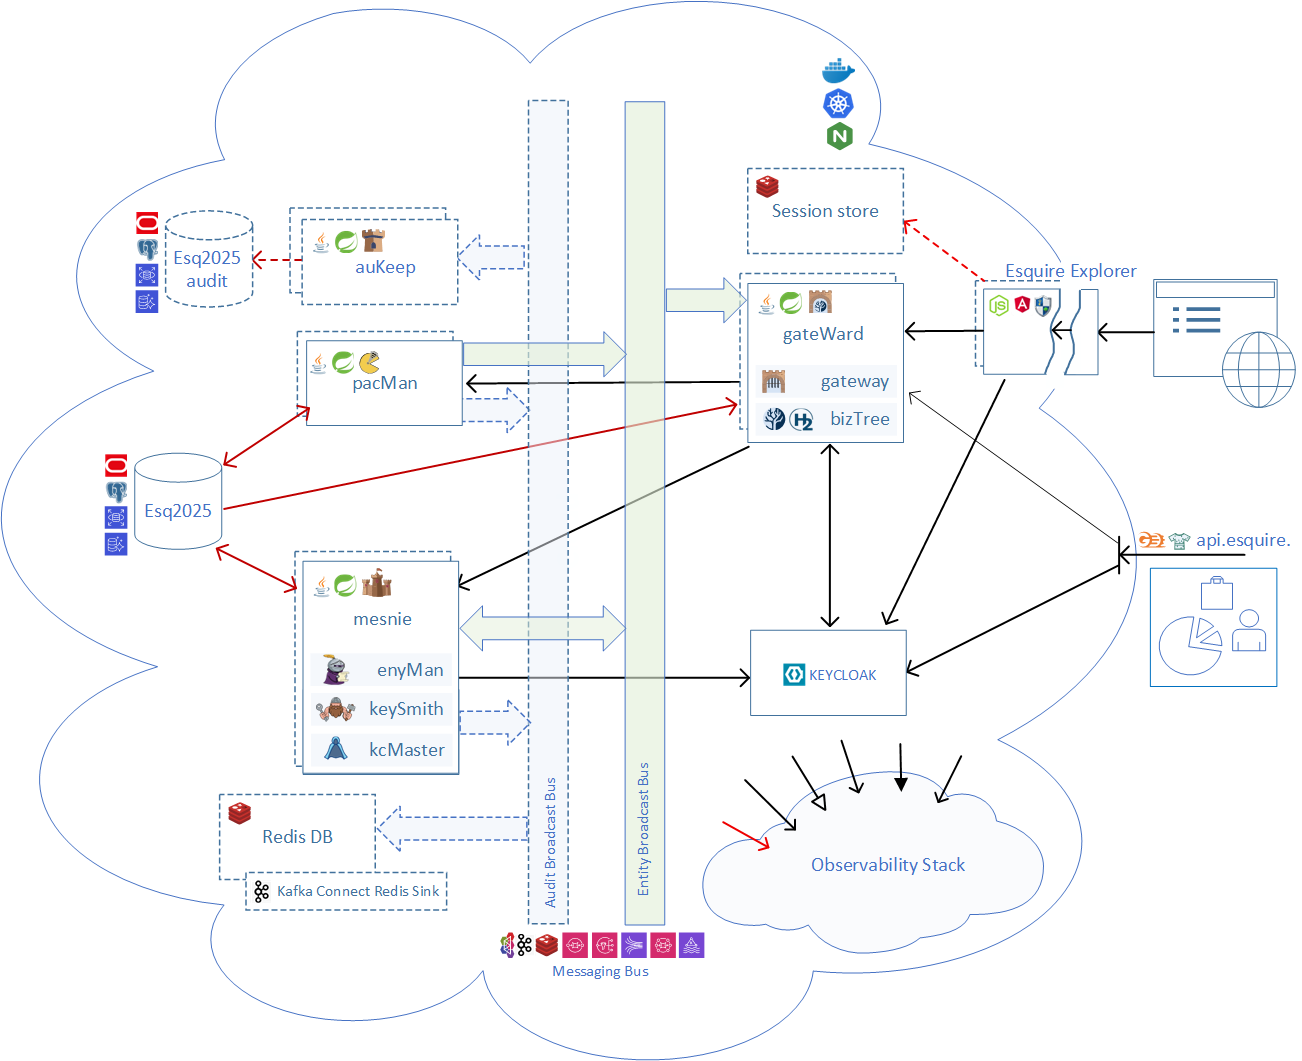
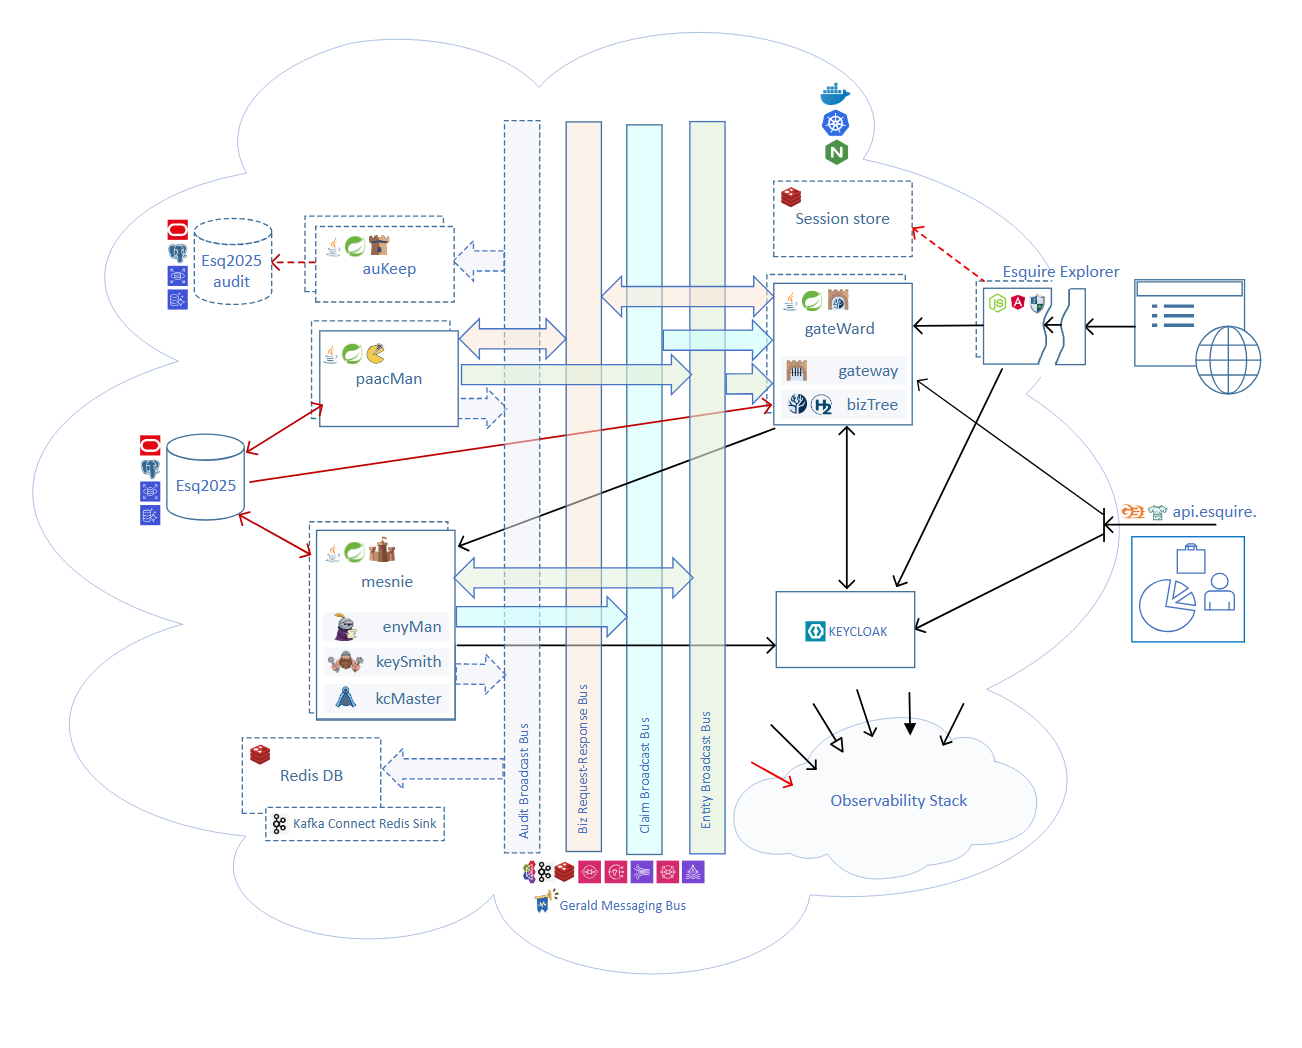
v2.0.3 -- finalization

diff --git a/frontend/public/landing/architecture.html b/frontend/public/landing/architecture.html
@@ -1,5 +1,5 @@
             <h2>Current Architecture</h2>
-            <img class="landing-arch-diagram" src="/img/ComponentModel.png?v=1214" alt="Esquire Component Model"/>
+            <img class="landing-arch-diagram" src="/img/ComponentModel.png?v=203" alt="Esquire Component Model"/>
 
             <p>
               Two public hosts:
@@ -11,7 +11,7 @@
 
             <p>
               Every box above is its own program: the <strong>gateway</strong>, the six backend
-              <strong>services</strong> (bizTree, enyMan, pacMan, keySmith, kcMaster, auKeep), and the
+              <strong>services</strong> (bizTree, enyMan, paacMan, keySmith, kcMaster, auKeep), and the
               <strong>BFF</strong>. Each of them runs <strong>redundant, with optional autoscale</strong>,
               and the copies sit on separate nodes, so losing one keeps the site up.
               The databases, Keycloak, the message broker and the Session Store run as a single instance
@@ -47,23 +47,27 @@
               <img src="/logo/sqs-cd.svg" alt="Amazon SQS" height="20" style="vertical-align:middle">&nbsp;
               <img src="/logo/kinesis-cd.svg" alt="Amazon Kinesis" height="20" style="vertical-align:middle">&nbsp;
               <img src="/logo/msk-cd.svg" alt="Amazon MSK" height="20" style="vertical-align:middle"></h3>
-            <p>Three logical channels:
-               <br> - <i>IAM Request-Response Bus</i> &mdash; carries identity commands from keySmith to
+            <p>Five logical channels:
+               <br> - <i>Biz Request-Response Bus</i> &mdash; carries account commands from the gateway to
+                 paacMan, and the answers back
+               <br> - <i>IAM Request-Response Bus</i> &mdash; carries sign-in commands from keySmith to
                  kcMaster, and acknowledgement replies back
-               <br> - <i>Entity Broadcast Bus</i> &mdash; enyMan and pacMan publish entity change events on
+               <br> - <i>Entity Broadcast Bus</i> &mdash; enyMan and paacMan publish entity change events on
                  every mutation; bizTree and other interested consumers subscribe
+               <br> - <i>Claim Broadcast Bus</i> &mdash; keySmith and enyMan tell every gateway copy that a
+                 user's roles or position changed, so the next request reads the new ones
                <br> - <i>Audit Broadcast Bus</i> &mdash; optional (off by default); the entity-updating
-                 services (enyMan, pacMan, keySmith) publish each committed change event to the audit sink.
+                 services (enyMan, paacMan, keySmith) publish each committed change event to the audit sink.
                <br><br>Supported messaging vendors / brokers: ActiveMQ, Kafka or Redis. With AWS you can use
                SNS, SQS, Kinesis, MQ for ActiveMQ or MSK (managed Kafka).</p>
 
-            <h3>pacMan &mdash; Personal Account Manager
+            <h3>paacMan &mdash; Personal Account Manager
               <img src="/logo/java.svg" alt="Java" height="20" style="vertical-align:middle">
               <img src="/logo/spring-boot.svg" alt="Spring Boot" height="20" style="vertical-align:middle">
               <img src="/logo/pac-man.svg" alt="pacMan" height="22" style="vertical-align:middle"></h3>
             <p>The accounting service; manages account balance operations: deposit, withdrawal,
                cross-currency transfer; the place where business logic lives; all other services
-               exist to support it.</p>
+               exist to support it. It takes its commands from the gateway over the Biz bus.</p>
 
             <h3>bizTree
               <img src="/logo/java.svg" alt="Java" height="20" style="vertical-align:middle">
@@ -90,17 +94,18 @@
               <img src="/logo/java.svg" alt="Java" height="20" style="vertical-align:middle">
               <img src="/logo/spring-boot.svg" alt="Spring Boot" height="20" style="vertical-align:middle">
               <img src="/logo/keySmith.3.png" alt="keySmith" height="36" style="vertical-align:middle"></h3>
-            <p>Authentication and access profile service; manages IAS integration and JWT-based
-               authorization; serves access profiles to the frontend; publishes identity change requests
-               to the IAM bus.</p>
+            <p>The access profile service; keeps each user's login, email, roles and sign-in state;
+               answers the gateway when it asks who a caller is and what they may do; publishes sign-in
+               changes to the IAM bus, and tells the gateways over the Claim Broadcast Bus when a user's rights
+               change.</p>
 
             <h3>kcMaster
               <img src="/logo/java.svg" alt="Java" height="20" style="vertical-align:middle">
               <img src="/logo/spring-boot.svg" alt="Spring Boot" height="20" style="vertical-align:middle">
               <img src="/logo/kcMaster.png" alt="kcMaster" height="20" style="vertical-align:middle"></h3>
             <p>Keycloak sync coordinator; the only service that writes to Keycloak directly; consumes
-               identity commands from the IAM bus and executes create / update / delete in the IAM. Also
-               listens on the entity broadcast bus to keep a moved entity's Keycloak path in sync.</p>
+               sign-in commands from the IAM bus and executes create / update / delete in the IAM: the
+               login, the email and the sign-in state. Esquire's own data stays in Esq2025.</p>
 
             <h3>auKeep
               <img src="/logo/java.svg" alt="Java" height="20" style="vertical-align:middle">
@@ -120,7 +125,9 @@
               <img src="/logo/spring-boot.svg" alt="Spring Boot" height="20" style="vertical-align:middle">&nbsp;
               <img src="/logo/gateway.svg" alt="Gateway" height="20" style="vertical-align:middle"></h3>
             <p>Spring Cloud Gateway; the API router; routes requests to the appropriate backend
-               service by path and entity kind; validates JWT tokens on every request. Reachable
+               service by path and entity kind; validates JWT tokens on every request. The token names
+               the caller; the gateway asks keySmith what that caller may see and do, keeps the answer
+               in a cache, and passes it to the services with the request. Reachable
                two ways: in-cluster from the BFF on /api/*, and externally at
                <strong>api.esquire.mir0n.pro</strong> &mdash; the public REST API for non-browser
                callers (service-to-service integrations, load / smoke harnesses, future mobile or
@@ -128,8 +135,9 @@
 
             <h3>Keycloak
               <img src="/logo/keycloak.png" alt="Keycloak" height="20" style="vertical-align:middle"></h3>
-            <p>External IAM; issues JWT access tokens; manages user identities, realm configuration,
-               and authentication flows including TOTP; runs as a containerized service.</p>
+            <p>External IAM; signs users in and issues JWT access tokens that name the user; holds the
+               login, the email and the credential, including TOTP, and no Esquire data; runs as a
+               containerized service.</p>
 
             <h3>Esquire Explorer Backend (BFF)
               <img src="/logo/node.js.svg" alt="Node.js" height="20" style="vertical-align:middle"></h3>
@@ -231,7 +239,7 @@
               Two things move with the grouping, and both are worth knowing. Identity work used to travel the
               message bus: keySmith asked kcMaster to write to Keycloak. Now it is a call inside one program.
               And a tree read is answered where the request arrives, instead of crossing the network a
-              second time. What does <strong>not</strong> move is <strong>pacMan</strong>: accounting is a
+              second time. What does <strong>not</strong> move is <strong>paacMan</strong>: accounting is a
               business domain built on the framework, not a part of it, so it stays its own program in every
               shape. Any domain you build works the same way.
             </p>
@@ -249,7 +257,7 @@
               paying for a large one, and it is a deployment choice, reversible at any time.
             </p>
 
-            <img class="landing-arch-diagram" src="/img/ComponentModel.Compact.png?v=1214" alt="Esquire Component Model, compact shape"/>
+            <img class="landing-arch-diagram" src="/img/ComponentModel.Compact.png?v=203" alt="Esquire Component Model, compact shape"/>
 
             <h3>Mesnie
               <img src="/logo/java.svg" alt="Java" height="20" style="vertical-align:middle">&nbsp;

diff --git a/frontend/public/landing/why-it-matters.html b/frontend/public/landing/why-it-matters.html
@@ -117,9 +117,11 @@
             </p>
             <p>
               <strong>Identity and access management.</strong> Keycloak today. The architecture
-              ensures no core service ever touches Keycloak directly. Replacing it means replacing
-              kcMaster with an xyzMaster that speaks to a different IAM &mdash; the rest of the system
-              is unchanged. A deployment decision, not an architectural one.
+              ensures no core service ever touches Keycloak directly. Keycloak signs users in and issues a
+              token that names the user, and nothing more: the roles and the position in the tree stay in
+              Esquire's own database, so the identity server holds no Esquire data to migrate. Replacing it
+              means replacing kcMaster with an xyzMaster that speaks to a different IAM &mdash; the rest of
+              the system is unchanged. A deployment decision, not an architectural one.
             </p>
 
             <h3>7. Observability built in, not left to you</h3>

diff --git a/frontend/src/index.html b/frontend/src/index.html
@@ -56,7 +56,7 @@
     "description": "Open-source backoffice framework providing hierarchical entity tree, positional authorization, server-driven UI, BRIUD audit trail, and async entity messaging. Built on Spring Boot and Angular. Self-hostable on any Kubernetes target.",
     "url": "https://esquire.mir0n.pro",
     "image": "https://esquire.mir0n.pro/img/og-banner.png?v=130a",
-    "softwareVersion": "2.0.2",
+    "softwareVersion": "2.0.3",
     "license": "https://github.com/mir0n-pro/esquire.services/blob/main/LICENSE",
     "offers": {
       "@type": "Offer",

diff --git a/README.md b/README.md
@@ -25,11 +25,12 @@ through the backend.
 
 ---
 >
-> **v2.0.2 -- browser tests for a sign-in that carries no Esquire data.** Esquire 2.0.2 adds a lab
-> mode in which the sign-in token holds only who the user is, and the server looks up the rest. Two new
-> browser test files cover it: what the token holds, and that a change to a user's access reaches that user
-> while they stay signed in. The tests run on docker and local Kubernetes; the public site runs the
-> default mode, and skips them. See [Release History](#release-history).
+> **v2.0.3 -- one kind of sign-in.** Esquire 2.0.3 makes the 2.0.2 lab mode the only one: the sign-in
+> token holds only who the user is, and the server looks up the rest. The browser tests now cover that one
+> way -- every kind of user signing in through the browser, and a direct client calling the gateway with a
+> token of its own. The tests that compared two kinds of token are gone, and the public site runs every
+> test. The backend keeps no roles in the session, and the landing pages show the new component model. See
+> [Release History](#release-history).
 >
 > The 1.2 line goes on in parallel. Its last release is
 > [v1.2.16](https://github.com/mir0n-pro/esquire.explorer/tree/release/v1.2.16?tab=readme-ov-file).
@@ -71,7 +72,7 @@ frontend ship together, as one image.
 
 **[release_notes.txt](doc/release_notes.txt)** -- the release notes, newest first.
 
-**[report_v2.0.2.md](doc/reports/report_v2.0.2.md)** -- the report of this release.
+**[report_v2.0.3.md](doc/reports/report_v2.0.3.md)** -- the report of this release.
 
 ---
 
